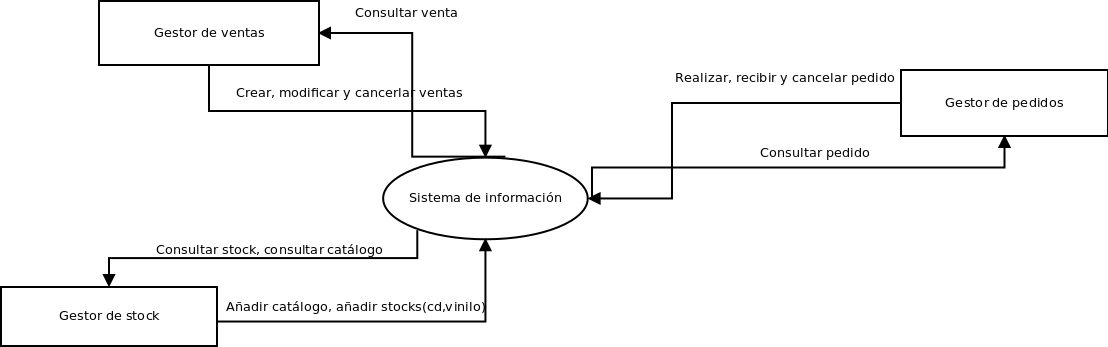
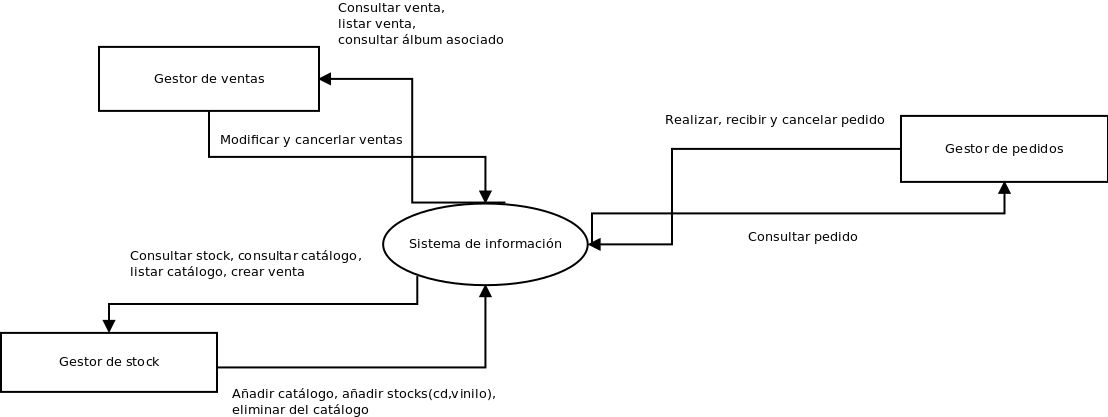
Modificado armazón de caja negra y refinados requisitos en la memoria

diff --git a/doc/memoria.md b/doc/memoria.md
@@ -102,8 +102,8 @@ Los usuarios del sistema serán el gestor de ventas, gestor de *stock* y gestor 
 
 * *Actor:* Gestor de *stock*
 * *Entrada:* Identificador de catálogo
-* *Procesamiento:* Generar la información asociada a una venta, y disminuir el
-  stock asociado al artículo.
+* *Procesamiento:* Generar la información asociada a una venta, con fecha de
+venta el día actual y disminuir el stock asociado al artículo.
 * *Salida*: Ninguna
 
 
@@ -111,8 +111,8 @@ Los usuarios del sistema serán el gestor de ventas, gestor de *stock* y gestor 
 
 * *Actor:* Gestor de *stock*
 * *Entrada:* Identificador de catálogo
-* *Procesamiento:* Generar la información asociada a una venta, y disminuir el
-  stock asociado al artículo.
+* *Procesamiento:* Generar la información asociada a una venta, con fecha de
+venta el día actual y disminuir el stock asociado al artículo.
 * *Salida*: Ninguna
 
 **RF8: Listar catálogo**
@@ -164,7 +164,15 @@ grupo coinciden con la cadena de caracteres (o con una parte) introducida.
   - RD2
   - RD3
 
-**RF14: Listar histórico de ventas**
+**RF14: Modificar venta**
+
+* *Actor:* Gestor de ventas
+* *Entrada:* RD8
+* *Procesamiento:* Muestra los datos de stock del álbum vendido
+* *Salida*: Ninguna
+
+
+**RF15: Listar histórico de ventas**
 
 * *Actor:* Gestor de *stock*
 * *Entrada:* Ninguna
@@ -172,7 +180,7 @@ grupo coinciden con la cadena de caracteres (o con una parte) introducida.
 * *Salida*: RD7 para cada elemento
 
 
-**RF15: Buscar en el histórico de ventas**
+**RF16: Buscar en el histórico de ventas**
 
 * *Actor:* Gestor de ventas
 * *Entrada:* Cadena de caracteres a contrastar con título, grupo o fecha de
@@ -184,28 +192,28 @@ introducido.
 
 ### Funcionalidad "Gestión de pedidos"
 
-**RF16: Realizar pedido**
+**RF17: Realizar pedido**
 
 * *Actor:* Gestor de pedidos
-* *Entrada:* RD8
+* *Entrada:* RD9
 * *Procesamiento:* Generar la información de un pedido
 * *Salida*: Ninguna
 
-**RF17: Listar todos los pedidos**
+**RF18: Listar todos los pedidos**
 
 * *Actor:* Gestor de pedidos
 * *Entrada:* ID de pedido
 * *Procesamiento:* Mostrar información referente a todos los pedidos realizados
 * *Salida*: RD9 para cada elemento
 
-**RF18: Listar todos los pedidos recibidos**
+**RF19: Listar todos los pedidos recibidos**
 
 * *Actor:* Gestor de pedidos
 * *Entrada:* Ninguna
 * *Procesamiento:* Mostrar información referente a todos los pedidos recibidos
 * *Salida*: RD9 para cada elemento
 
-**RF19: Listar todos los pedidos no recibidos**
+**RF20: Listar todos los pedidos no recibidos**
 
 * *Actor:* Gestor de pedidos
 * *Entrada:* Ninguna
@@ -214,7 +222,7 @@ recibidos
 * *Salida*: RD9 para cada elemento
 
 
-**RF20: Listar todos los pedidos cancelados**
+**RF21: Listar todos los pedidos cancelados**
 
 * *Actor:* Gestor de pedidos
 * *Entrada:* Ninguna
@@ -222,14 +230,14 @@ recibidos
 * *Salida*: RD9 para cada elemento
 
 
-**RF21: Cancelar pedido**
+**RF22: Cancelar pedido**
 
 * *Actor:* Gestor de pedidos
 * *Entrada:* ID de pedido
 * *Procesamiento:* Cancelar un pedido, estableciendo una fecha de cancelación
 * *Salida*: Ninguna
 
-**RF22: Marcar pedido como recibido**
+**RF23: Marcar pedido como recibido**
 
 * *Actor:* Gestor de pedidos
 * *Entrada:* ID pedido
@@ -239,7 +247,7 @@ actualizar) la información de *stock* del álbum asociado.
   - RD1
   - RD2 o RD3
 
-**RF23: Buscar en el histórico de pedidos**
+**RF24: Buscar en el histórico de pedidos**
 
 * *Actor:* Gestor de pedidos
 * *Entrada:* Cadena de caracteres a contrastar con título, grupo o fecha de
@@ -299,8 +307,12 @@ introducido.
 * Precio (número real)
 * Fecha venta
 
+**RD8: Datos modificables en \underline{VENTA}**
 
-**RD8: Datos almacenados en \underline{PEDIDO}**
+* Fecha venta
+* Observaciones
+
+**RD9: Datos almacenados en \underline{PEDIDO}**
 
 * ID Pedido
 * Título (cadena de caracteres)
@@ -327,22 +339,26 @@ El precio del stock (ya sea CD o Vinilo asociado) no puede ser vacío.
 
 El formato de venta debe ser o bien CD o Vinilo.
 
-**RS4: Borrado de elemento de catálogo**
+**RS4: Fecha de venta**
+
+La fecha de venta debe ser anterior al día actual
+
+**RS5: Borrado de elemento de catálogo**
 
 Al borrar un elemento del catálogo de la tienda, no puede desaparecer la
 facturación asociada.
 
-**RS5: Pedido no recibido**
+**RS6: Pedido no recibido**
 
 Un pedido no recibido tendrá únicamente fecha realización.
 
 
-**RS6: Pedido recibido**
+**RS7: Pedido recibido**
 
 Un pedido tendrá además de fecha de realización, fecha de entrada.
 
 
-**RS7: Pedido cancelado**
+**RS8: Pedido cancelado**
 
 Un pedido cancelado tendrá fecha de realización y fecha de cancelación, pero
 no puede tener fecha de entrada. Un pedido cancelado no puede recibirse una
